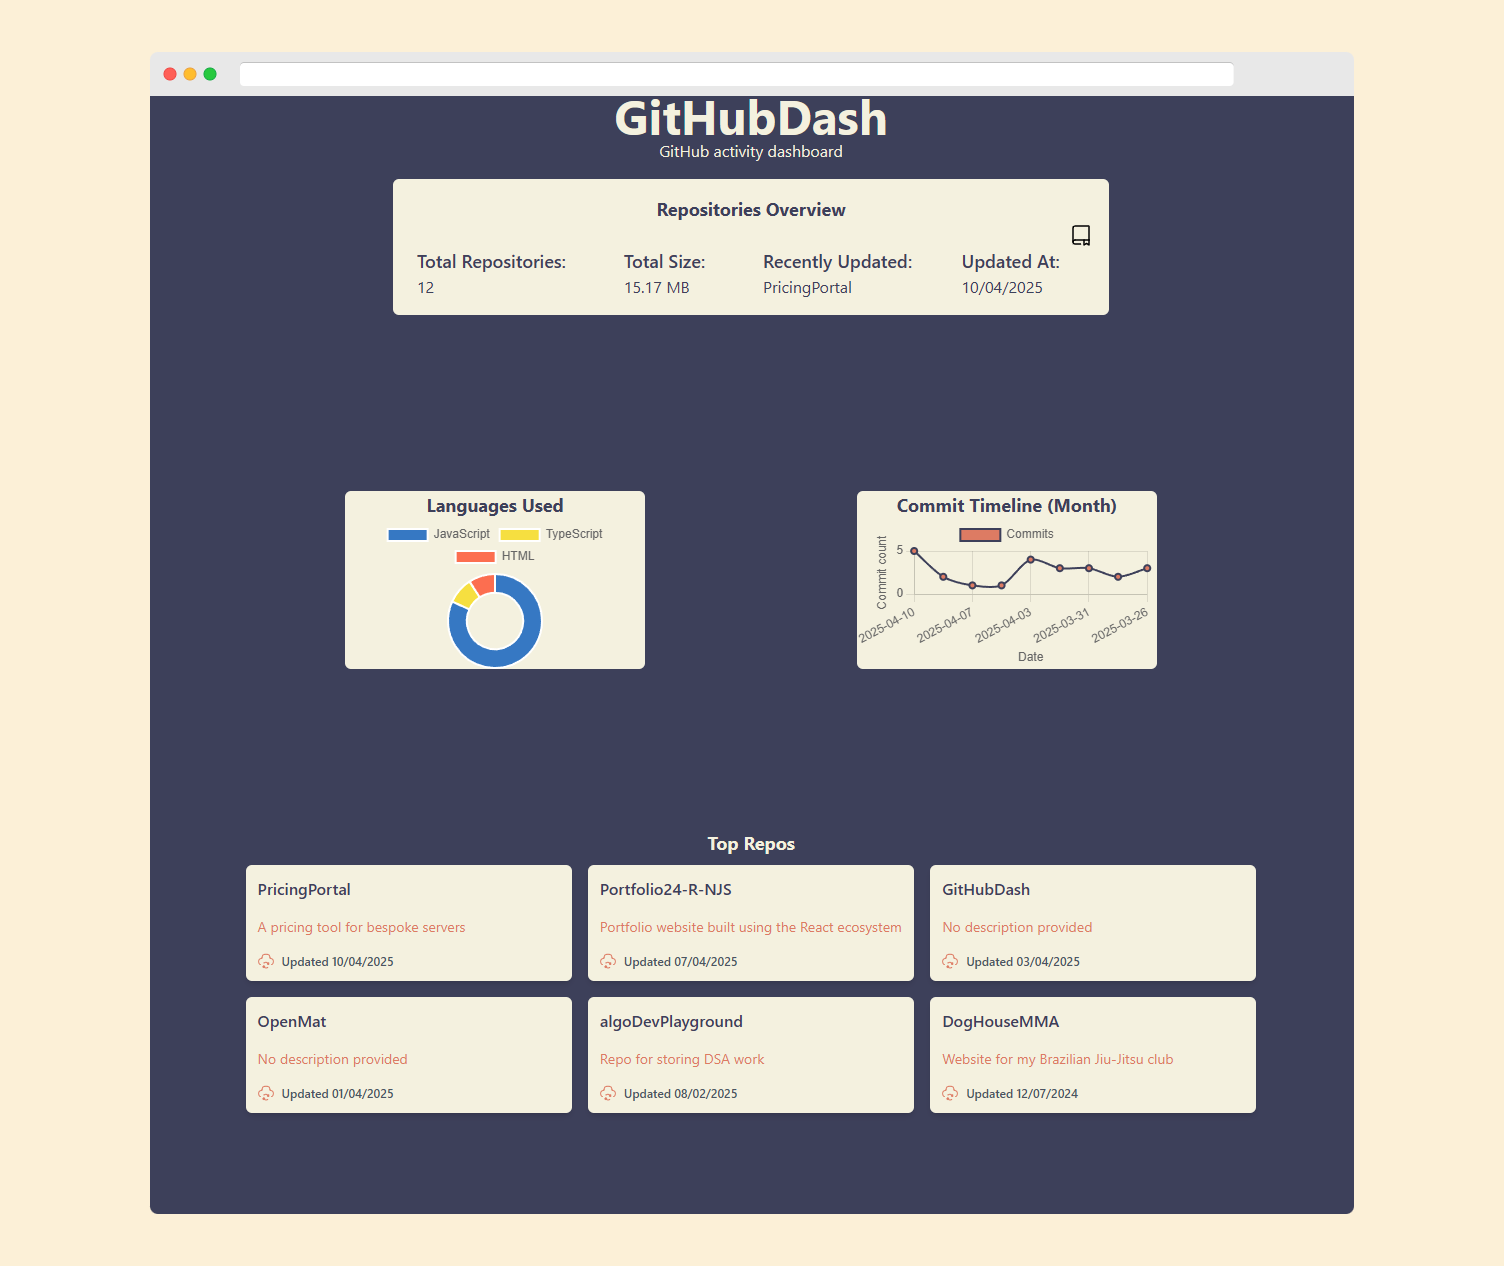
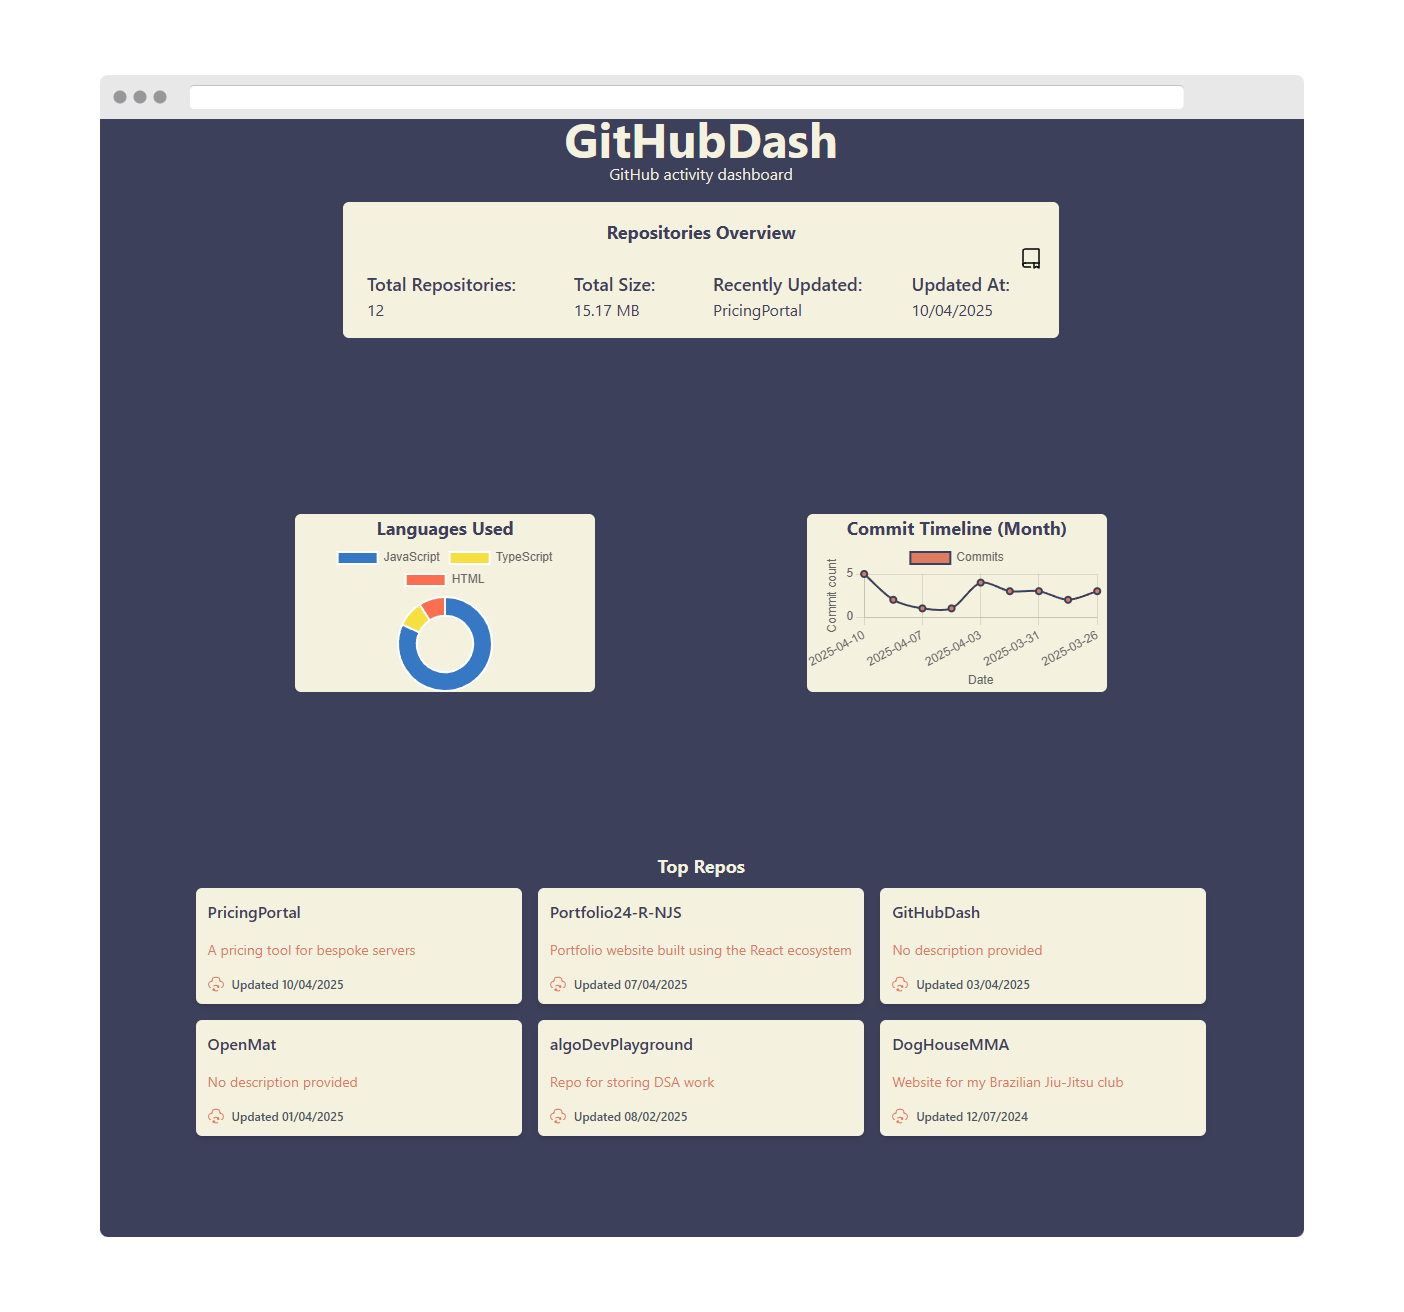
Fix: update image mockups and card styles for consistency

diff --git a/src/app/components/ProjectDetail.jsx b/src/app/components/ProjectDetail.jsx
@@ -23,21 +23,25 @@ export default function ProjectDetail({ project }) {
             </section>
 
             <section>
-                <div className="grid grid-cols-1 gap-10 justify-items-center md:grid-cols-2">
-                    <Image
-                        src={project["desktop-image"]}
-                        alt="GitHubDash desktop view"
-                        width={800}
-                        height={800}
-                        priority={true}
-                    />
-                    <Image
-                        src={project["mobile-image"]}
-                        alt="GitHubDash mobile view"
-                        width={500}
-                        height={600}
-                        priority={true}
-                    />
+                <div className="grid grid-cols-1 grid-rows-1 gap-10 justify-items-center md:grid-cols-2">
+                    <div className="rounded-xl border border-gray-300 shadow-lg w-fit h-fit">
+                        <Image
+                            src={project["desktop-image"]}
+                            alt={project["desktop-alt"]}
+                            width={800}
+                            height={600}
+                            priority={true}
+                        />
+                    </div>
+                    <div className="rounded-xl border border-gray-300 shadow-lg w-fit h-fit">
+                        <Image
+                            src={project["mobile-image"]}
+                            alt={project["mobile-alt"]}
+                            width={500}
+                            height={250}
+                            priority={true}
+                        />
+                    </div>
                 </div>
             </section>
         </article>

diff --git a/src/app/components/AboutMe.jsx b/src/app/components/AboutMe.jsx
@@ -10,19 +10,19 @@ export default function AboutMe() {
             <article>
                 <h2 className="text-center text-lg">About Me</h2>
                 <section className="text-pretty p-2">
-                    <p className="min-h-[24px]">
+                    <p className="min-h-[24px] md:text-lg">
                         {greetingText}
                         <span>👋🏼</span>
                     </p>
-                    <p className="my-2">
+                    <p className="my-2 md:text-lg">
                         London-based JavaScript developer capable of working
                         with vanilla JS, React, Next.js and Node.js/ExpressJS.
                     </p>
-                    <p className="my-2">
+                    <p className="my-2 md:text-lg">
                         Comfortable with MongoDB and learning PostgreSQL - able
                         to work with or without the use of ORMs.
                     </p>
-                    <p className="my-2">
+                    <p className="my-2 md:text-lg">
                         Passionate about crafting intuitive and seamless web
                         experiences. Always keen to learn, and eager to improve.
                     </p>
